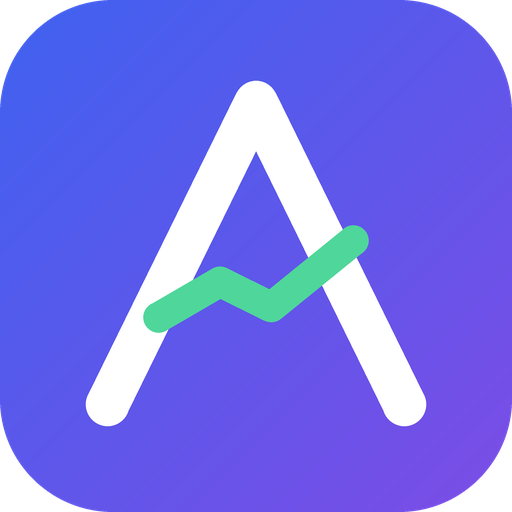
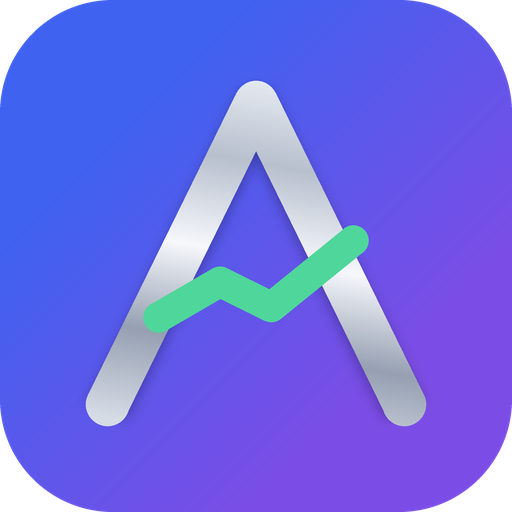
Λογότυπο Axiogram: ασημί Α
Claude-Session: https://claude.ai/code/session_01SHhXjfjGT5qtJTLYyss7Rv

Changed region(s): [[0.3438, 0.1562, 0.6875, 0.5], [0.1562, 0.5, 0.4062, 0.8438], [0.625, 0.5312, 0.8438, 0.8438]]

diff --git a/index.html b/index.html
@@ -710,7 +710,7 @@ th[aria-sort] button { color: var(--accent); }
 <div class="wrap">
   <header class="top">
     <div class="brand">
-      <h1 class="brandh"><svg class="brandmark" width="30" height="30" viewBox="0 0 100 100" aria-hidden="true"><defs><linearGradient id="axg" x1="0" y1="0" x2="1" y2="1"><stop offset="0" stop-color="#4062f0"/><stop offset="1" stop-color="#7c4de6"/></linearGradient></defs><rect width="100" height="100" rx="22" fill="url(#axg)"/><path d="M21 79 50 20 79 79" fill="none" stroke="#fff" stroke-width="8.5" stroke-linecap="round" stroke-linejoin="round"/><path d="M31 62 43 55 53 60 69 47" fill="none" stroke="#4fd69a" stroke-width="6" stroke-linecap="round" stroke-linejoin="round"/></svg><span>Axiogram</span></h1>
+      <h1 class="brandh"><svg class="brandmark" width="30" height="30" viewBox="0 0 100 100" aria-hidden="true"><defs><linearGradient id="axg" x1="0" y1="0" x2="1" y2="1"><stop offset="0" stop-color="#4062f0"/><stop offset="1" stop-color="#7c4de6"/></linearGradient><linearGradient id="axs" x1="0.2" y1="0" x2="0.8" y2="1"><stop offset="0" stop-color="#eef1f6"/><stop offset=".3" stop-color="#b8c0ce"/><stop offset=".5" stop-color="#f6f8fc"/><stop offset=".75" stop-color="#96a0b2"/><stop offset="1" stop-color="#d6dce6"/></linearGradient></defs><rect width="100" height="100" rx="22" fill="url(#axg)"/><path d="M21 79 50 20 79 79" fill="none" stroke="url(#axs)" stroke-width="8.5" stroke-linecap="round" stroke-linejoin="round"/><path d="M31 62 43 55 53 60 69 47" fill="none" stroke="#4fd69a" stroke-width="6" stroke-linecap="round" stroke-linejoin="round"/></svg><span>Axiogram</span></h1>
       <button type="button" class="pill" id="pill" aria-controls="banner" aria-expanded="false">Στιγμιότυπο</button>
     </div>
     <div class="topright">

diff --git a/sw.js b/sw.js
@@ -1,7 +1,7 @@
 /* Axiogram: εφαρμογή (service worker).
    Πάντα δοκιμάζει πρώτα το δίκτυο, ώστε οι τιμές να είναι οι τελευταίες.
    Αν δεν υπάρχει internet, δείχνει ό,τι αποθηκεύτηκε την τελευταία φορά. */
-var CACHE = "agora-v20";
+var CACHE = "agora-v21";
 var SHELL = ["./", "index.html", "manifest.webmanifest", "icons/icon-192.png", "icons/icon-512.png"];
 
 self.addEventListener("install", function (e) {
